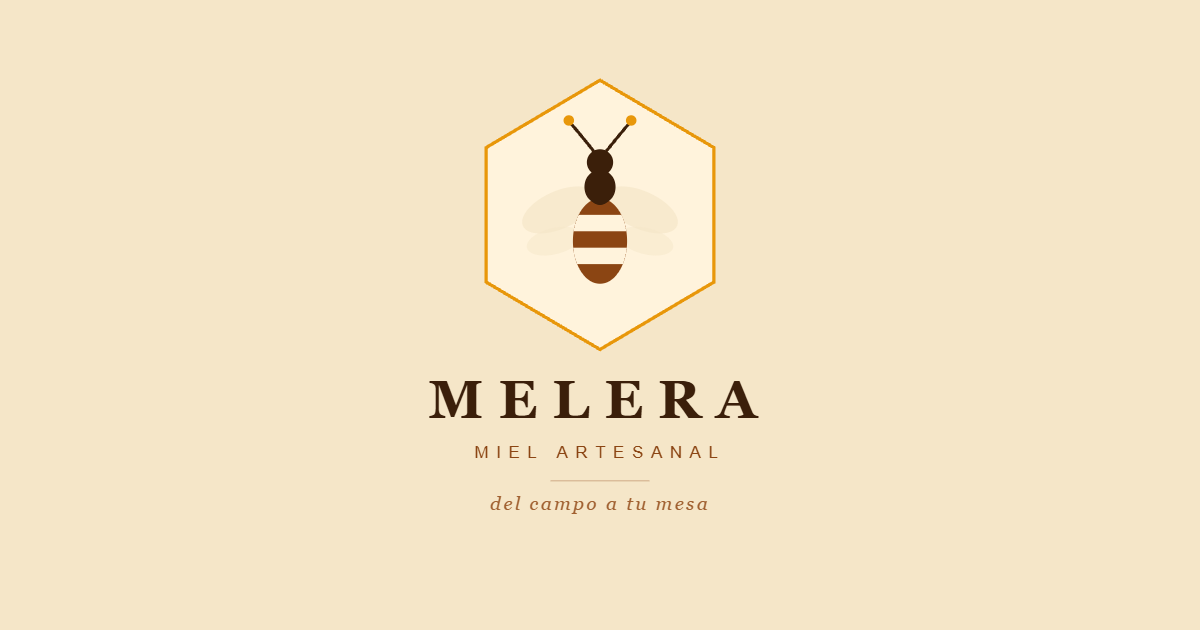
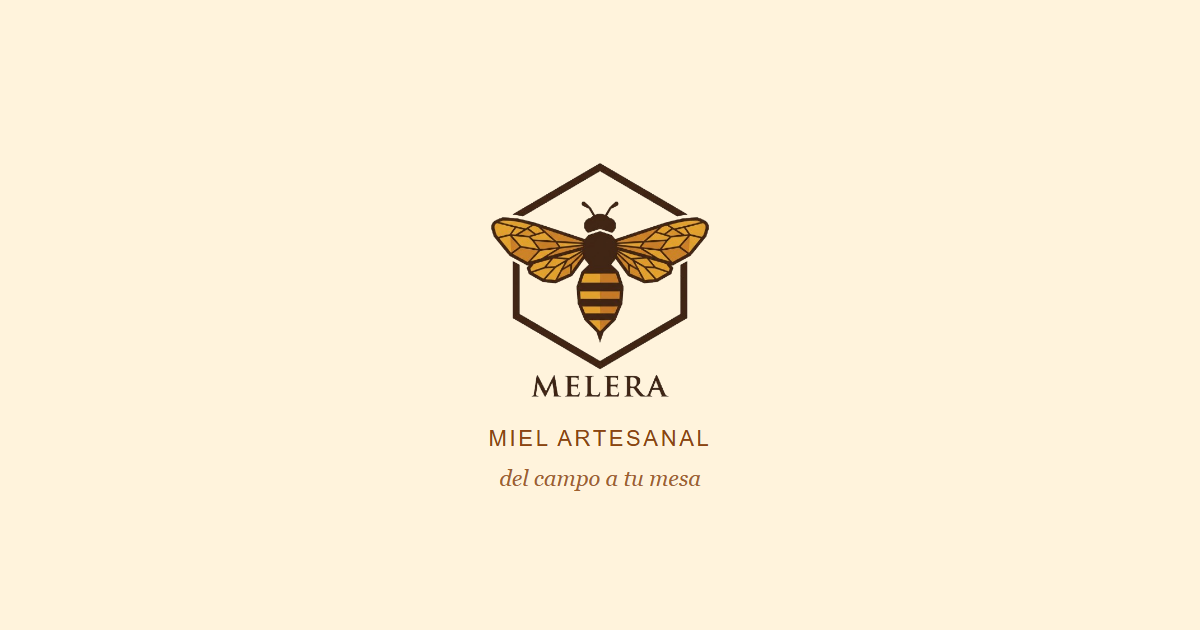
panel admin

Changed region(s): [[0.3392, 0.1206, 0.6475, 0.7238], [0.4008, 0.754, 0.5858, 0.8143], [0.5242, 0.1508, 0.5858, 0.2111]]

diff --git a/src/components/Footer.tsx b/src/components/Footer.tsx
@@ -8,7 +8,9 @@ export default function Footer() {
     <footer className="bg-[#170903]">
       <div className="container-melera flex flex-col items-center gap-4 py-8 text-center sm:flex-row sm:justify-between sm:text-left">
         <div className="flex items-center gap-2">
-          <Image src="/brand/melera-icono-dark.svg" alt="" width={28} height={28} />
+          <span className="flex h-9 w-9 shrink-0 items-center justify-center rounded-full bg-crema p-1">
+            <Image src="/brand/melera-logo.png" alt="" width={28} height={28} />
+          </span>
           <div>
             <p className="font-serif text-lg font-semibold text-[#FFF3DC]">Melera</p>
             <p className="text-sm text-[#CBB392]">Miel artesanal de Tomás Jofré, Buenos Aires.</p>

diff --git a/src/components/admin/AdminNav.tsx b/src/components/admin/AdminNav.tsx
@@ -23,7 +23,7 @@ export default function AdminNav() {
     <header className="border-b border-miel-100 bg-white">
       <div className="container-melera flex h-16 items-center justify-between">
         <Link href="/admin/pedidos" className="flex items-center gap-2 font-serif text-xl font-semibold text-miel-700">
-          <Image src="/brand/melera-icono.svg" alt="" width={28} height={28} />
+          <Image src="/brand/melera-logo.png" alt="" width={32} height={32} />
           Melera · Admin
         </Link>
         <nav className="flex items-center gap-6 text-sm font-medium text-stone-600">

diff --git a/src/app/api/checkout/route.ts b/src/app/api/checkout/route.ts
@@ -75,7 +75,8 @@ export async function POST(req: NextRequest) {
           failure: `${baseUrl}/checkout/failure?orderId=${order.id}`,
           pending: `${baseUrl}/checkout/pending?orderId=${order.id}`,
         },
-        auto_return: "approved",
+        // auto_return solo funciona con back_urls en HTTPS: MP lo rechaza en localhost.
+        ...(baseUrl.startsWith("https://") ? { auto_return: "approved" as const } : {}),
         notification_url: `${baseUrl}/api/mercadopago/webhook`,
       },
     });

diff --git a/src/app/admin/login/page.tsx b/src/app/admin/login/page.tsx
@@ -48,7 +48,7 @@ function LoginForm() {
         className="w-full max-w-sm rounded-2xl bg-white p-8 shadow-soft"
       >
         <div className="flex items-center gap-2">
-          <Image src="/brand/melera-icono.svg" alt="" width={32} height={32} />
+          <Image src="/brand/melera-logo.png" alt="" width={40} height={40} />
           <h1 className="font-serif text-2xl font-semibold text-marron">
             Panel Melera
           </h1>
